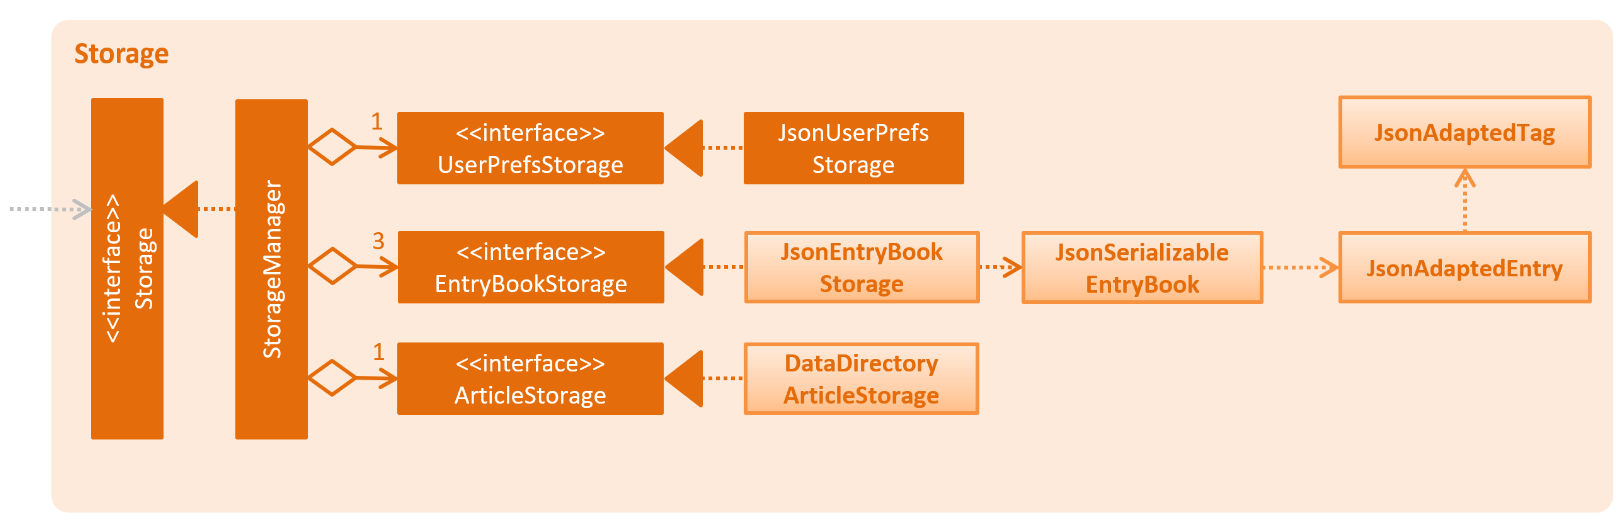
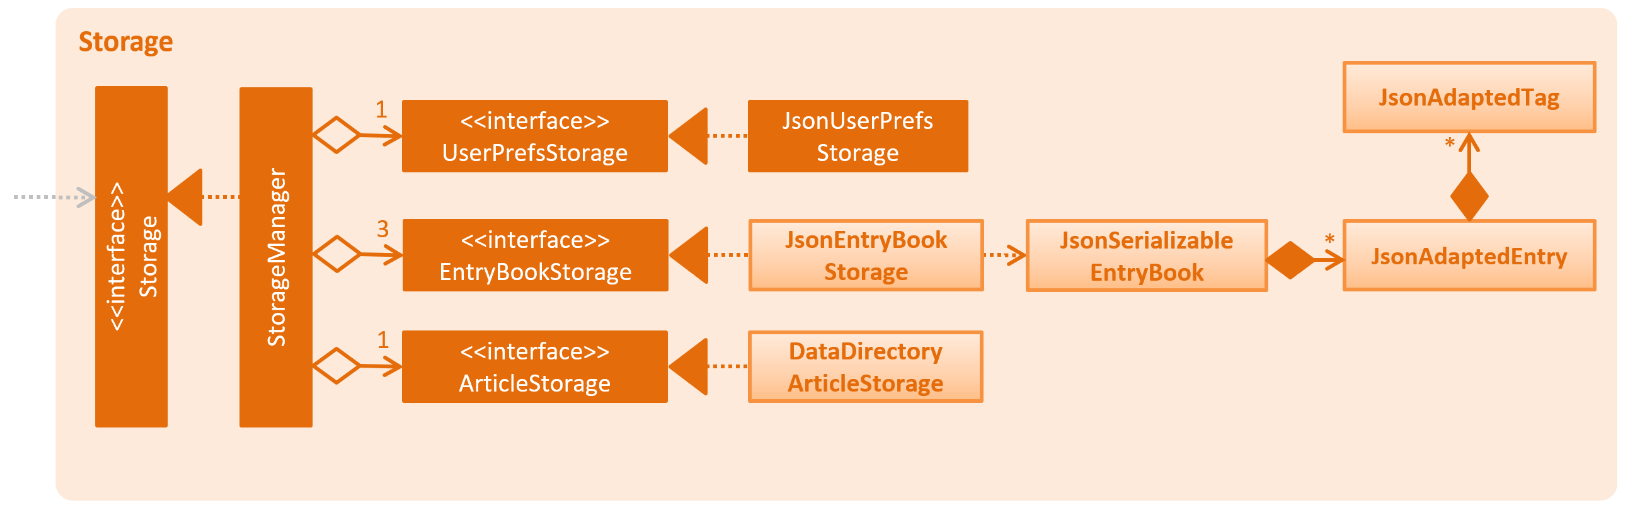
Rebuild pages at 9bd3576d60252b10513c8cabb75ee94daa49c340

diff --git a/DeveloperGuide.html b/DeveloperGuide.html
@@ -533,12 +533,20 @@ As a more OOP model, we can store a <code>Tag</code> list in <code>Address Book<
 <div class="ulist">
 <ul>
 <li>
-<p>can save <code>UserPref</code> objects in json format and read it back.</p>
+<p>can save <code>UserPref</code> objects, and <code>EntryBook</code> data (for Reading List, Archives, and Feeds) in json format and read it back.</p>
 </li>
 <li>
-<p>can save the Address Book data in json format and read it back.</p>
+<p>can save .html articles in a data directory as individual files. The article contents are only read when required by the user.</p>
 </li>
 </ul>
+</div>
+<div class="paragraph">
+<p>Unlike the <code>UserPref</code> and <code>EntryBook</code> data, we don&#8217;t store the articles in a flat file.
+This is because the file size of the article store is much larger than the file sizes of all the prefs and reading list/archives/etc. combined,
+so having it in a flat file would drastically slow down the application.</p>
+</div>
+<div class="paragraph">
+<p>Instead, the files are saved to disk and are not read until the user clicks on an entry and wants to view it offline.</p>
 </div>
 </div>
 <div class="sect2">
@@ -1300,6 +1308,36 @@ after ruling out dependency inversion,
 and the static class pattern is easier to write than the singleton pattern.</p>
 </div>
 </div>
+<div class="sect3">
+<h4 id="asynchronous-network-calls"><a class="link" href="#asynchronous-network-calls">3.5.6. Asynchronous network calls</a></h4>
+<div class="paragraph">
+<p>As the entirety of addressbook-level4 (AB4) is written synchronously,
+it is a major undertaking to convert AB4 to use asynchronous (async) network calls.
+We did a small scale experiment to see how async might be done by making
+the <code>select</code> command download un-downloaded articles in the background.</p>
+</div>
+<div class="paragraph">
+<p>Here is a sequence diagram showing how the interaction works:</p>
+</div>
+<div class="imageblock">
+<div class="content">
+<img src="images/SelectRefreshSdForStorage.png" alt="SelectRefreshSdForStorage" width="800">
+</div>
+</div>
+<div class="paragraph">
+<p>Notice that when returning from the async network call,
+we wrap our code in <code>Platform.runLater(&#8230;&#8203;)</code> to ensure that the rest of the
+execution is done on the JavaFX Application Thread.
+This helps to prevent certain race conditions from potentially ruining the model.</p>
+</div>
+<div class="paragraph">
+<p>However, in the process of implementing this,
+we found that it made testing this unreliable
+as we could no longer be sure when the command has "truly" finished executing.
+Thus, we decided to defer the conversion of the rest of the AB4 to async
+to the v2.0 milestone.</p>
+</div>
+</div>
 </div>
 <div class="sect2">
 <h3 id="offline-mode"><a class="link" href="#offline-mode">3.6. Offline mode</a></h3>
@@ -1782,7 +1820,7 @@ e.g. <code>seedu.address.logic.LogicManagerTest</code></p>
 <div class="sect2">
 <h3 id="continuous-integration"><a class="link" href="#continuous-integration">6.2. Continuous Integration</a></h3>
 <div class="paragraph">
-<p>We use <a href="https://travis-ci.org/">Travis CI</a> and <a href="https://www.appveyor.com/">AppVeyor</a> to perform <em>Continuous Integration</em> on our projects. See <a href="UsingTravis.html">UsingTravis.adoc</a> and <a href="UsingAppVeyor.html">UsingAppVeyor.adoc</a> for more details.</p>
+<p>We use <a href="https://travis-ci.org/">Travis CI</a> and <a href="https://www.appveyor.com/">AppVeyo</a> to perform <em>Continuous Integration</em> on our projects. See <a href="UsingTravis.html">UsingTravis.adoc</a> and <a href="UsingAppVeyor.html">UsingAppVeyor.adoc</a> for more details.</p>
 </div>
 </div>
 <div class="sect2">
@@ -3245,4 +3283,4 @@ Expected: Similar to previous.</p>
 </div>
 </div>
 </div>
-</div></div><div id="footer"><div class="container"><div id="footer-text">Last updated 2019-04-15 14:20:51 UTC</div></div></div></body></html>
+</div></div><div id="footer"><div class="container"><div id="footer-text">Last updated 2019-04-15 14:52:37 UTC</div></div></div></body></html>

diff --git a/team/thomastanck.html b/team/thomastanck.html
@@ -485,6 +485,39 @@ with other commands such as <a href="#findcommand"><code>find</code></a> to be m
 </table>
 <hr>
 <div class="sect2">
+<h3 id="storage-component"><a class="link" href="#storage-component">Storage component</a></h3>
+<div class="imageblock">
+<div class="content">
+<img src="../images/StorageClassDiagram.png" alt="StorageClassDiagram" width="800">
+</div>
+<div class="title">Figure 3. Structure of the Storage Component</div>
+</div>
+<div class="paragraph">
+<p><strong>API</strong> : <a href="{repoURL}/src/main/java/seedu/address/storage/Storage.java"><code>Storage.java</code></a></p>
+</div>
+<div class="paragraph">
+<p>The <code>Storage</code> component,</p>
+</div>
+<div class="ulist">
+<ul>
+<li>
+<p>can save <code>UserPref</code> objects, and <code>EntryBook</code> data (for Reading List, Archives, and Feeds) in json format and read it back.</p>
+</li>
+<li>
+<p>can save .html articles in a data directory as individual files. The article contents are only read when required by the user.</p>
+</li>
+</ul>
+</div>
+<div class="paragraph">
+<p>Unlike the <code>UserPref</code> and <code>EntryBook</code> data, we don&#8217;t store the articles in a flat file.
+This is because the file size of the article store is much larger than the file sizes of all the prefs and reading list/archives/etc. combined,
+so having it in a flat file would drastically slow down the application.</p>
+</div>
+<div class="paragraph">
+<p>Instead, the files are saved to disk and are not read until the user clicks on an entry and wants to view it offline.</p>
+</div>
+</div>
+<div class="sect2">
 <h3 id="code-network-code-design"><a class="link" href="#code-network-code-design"><code>Network</code> design</a></h3>
 <div class="paragraph">
 <p>As many components have to make network calls
@@ -690,6 +723,36 @@ after ruling out dependency inversion,
 and the static class pattern is easier to write than the singleton pattern.</p>
 </div>
 </div>
+<div class="sect3">
+<h4 id="asynchronous-network-calls"><a class="link" href="#asynchronous-network-calls">Asynchronous network calls</a></h4>
+<div class="paragraph">
+<p>As the entirety of addressbook-level4 (AB4) is written synchronously,
+it is a major undertaking to convert AB4 to use asynchronous (async) network calls.
+We did a small scale experiment to see how async might be done by making
+the <code>select</code> command download un-downloaded articles in the background.</p>
+</div>
+<div class="paragraph">
+<p>Here is a sequence diagram showing how the interaction works:</p>
+</div>
+<div class="imageblock">
+<div class="content">
+<img src="../images/SelectRefreshSdForStorage.png" alt="SelectRefreshSdForStorage" width="800">
 </div>
 </div>
-</div></div><div id="footer"><div class="container"><div id="footer-text">Last updated 2019-04-15 14:20:51 UTC</div></div></div></body></html>
+<div class="paragraph">
+<p>Notice that when returning from the async network call,
+we wrap our code in <code>Platform.runLater(&#8230;&#8203;)</code> to ensure that the rest of the
+execution is done on the JavaFX Application Thread.
+This helps to prevent certain race conditions from potentially ruining the model.</p>
+</div>
+<div class="paragraph">
+<p>However, in the process of implementing this,
+we found that it made testing this unreliable
+as we could no longer be sure when the command has "truly" finished executing.
+Thus, we decided to defer the conversion of the rest of the AB4 to async
+to the v2.0 milestone.</p>
+</div>
+</div>
+</div>
+</div>
+</div></div><div id="footer"><div class="container"><div id="footer-text">Last updated 2019-04-15 14:52:37 UTC</div></div></div></body></html>

diff --git a/HelpWindow.html b/HelpWindow.html
@@ -69,7 +69,7 @@
 <li><a href="#List-Context">6.4. <code>Reading List</code> Context Commands</a>
 <ul class="sectlevel3">
 <li><a href="#editing-an-entry-code-edit-code">6.4.1. Editing an entry: <code>edit</code></a></li>
-<li><a href="#findcommand">6.4.2. Finding entries by title: <code>find</code></a></li>
+<li><a href="#findcommand">6.4.2. Finding entries (by title, description, etc.): <code>find</code></a></li>
 <li><a href="#selecting-an-entry-code-select-code">6.4.3. Selecting an entry: <code>select</code></a></li>
 <li><a href="#changing-the-view-mode-code-view-code">6.4.4. Changing the view mode: <code>view</code></a></li>
 <li><a href="#refreshing-an-entry-code-refresh-code">6.4.5. Refreshing an entry: <code>refresh</code></a></li>
@@ -104,7 +104,7 @@
 <li><a href="#Feeds-Context">6.7. <code>Feeds</code> Context Commands</a>
 <ul class="sectlevel3">
 <li><a href="#updating-entries-from-feeds-code-refresh-code">6.7.1. Updating entries from feeds: <code>refresh</code></a></li>
-<li><a href="#updating-entries-from-all-currently-displayed-feeds-code-addall-code">6.7.2. Updating entries from all currently displayed feeds: <code>addall</code></a></li>
+<li><a href="#updating-entries-from-all-currently-displayed-feeds-code-refreshall-code">6.7.2. Updating entries from all currently displayed feeds: <code>refreshall</code></a></li>
 <li><a href="#selecting-a-feed-code-select-code">6.7.3. Selecting a feed: <code>select</code></a></li>
 <li><a href="#editing-a-feed-code-edit-code-code-coming-in-v2-0-code">6.7.4. Editing a feed: <code>edit</code> <code>[coming in v2.0]</code></a></li>
 <li><a href="#unsubscribing-from-a-feed-code-unsubscribe-code">6.7.5. Unsubscribing from a feed: <code>unsubscribe</code></a></li>
@@ -1310,7 +1310,7 @@ Refer to <a href="#Searchfeeds-Context">Section 6.8, &#8220;<code>Feeds Search</
 </div>
 </div>
 <div class="sect3">
-<h4 id="findcommand"><a class="link" href="#findcommand">6.4.2. Finding entries by title: <code>find</code></a></h4>
+<h4 id="findcommand"><a class="link" href="#findcommand">6.4.2. Finding entries (by title, description, etc.): <code>find</code></a></h4>
 <div class="paragraph">
 <p>Finds entries whose fields contain any of the given keyphrases.<br></p>
 </div>
@@ -2605,7 +2605,7 @@ with other commands such as <a href="#findcommand"><code>find</code></a> to be m
 </div>
 </div>
 <div class="sect3">
-<h4 id="updating-entries-from-all-currently-displayed-feeds-code-addall-code"><a class="link" href="#updating-entries-from-all-currently-displayed-feeds-code-addall-code">6.7.2. Updating entries from all currently displayed feeds: <code>addall</code></a></h4>
+<h4 id="updating-entries-from-all-currently-displayed-feeds-code-refreshall-code"><a class="link" href="#updating-entries-from-all-currently-displayed-feeds-code-refreshall-code">6.7.2. Updating entries from all currently displayed feeds: <code>refreshall</code></a></h4>
 <div class="paragraph">
 <p>Refreshes all currently displayed feeds.</p>
 </div>
@@ -2973,4 +2973,4 @@ with other commands such as <a href="#findcommand"><code>find</code></a> to be m
 <div class="sectionbody">
 
 </div>
-</div></div><div id="footer"><div class="container"><div id="footer-text">Last updated 2019-04-15 14:20:51 UTC</div></div></div></body></html>
+</div></div><div id="footer"><div class="container"><div id="footer-text">Last updated 2019-04-15 14:52:36 UTC</div></div></div></body></html>

diff --git a/UserGuide.html b/UserGuide.html
@@ -69,7 +69,7 @@
 <li><a href="#List-Context">6.4. <code>Reading List</code> Context Commands</a>
 <ul class="sectlevel3">
 <li><a href="#editing-an-entry-code-edit-code">6.4.1. Editing an entry: <code>edit</code></a></li>
-<li><a href="#findcommand">6.4.2. Finding entries by title: <code>find</code></a></li>
+<li><a href="#findcommand">6.4.2. Finding entries (by title, description, etc.): <code>find</code></a></li>
 <li><a href="#selecting-an-entry-code-select-code">6.4.3. Selecting an entry: <code>select</code></a></li>
 <li><a href="#changing-the-view-mode-code-view-code">6.4.4. Changing the view mode: <code>view</code></a></li>
 <li><a href="#refreshing-an-entry-code-refresh-code">6.4.5. Refreshing an entry: <code>refresh</code></a></li>
@@ -104,7 +104,7 @@
 <li><a href="#Feeds-Context">6.7. <code>Feeds</code> Context Commands</a>
 <ul class="sectlevel3">
 <li><a href="#updating-entries-from-feeds-code-refresh-code">6.7.1. Updating entries from feeds: <code>refresh</code></a></li>
-<li><a href="#updating-entries-from-all-currently-displayed-feeds-code-addall-code">6.7.2. Updating entries from all currently displayed feeds: <code>addall</code></a></li>
+<li><a href="#updating-entries-from-all-currently-displayed-feeds-code-refreshall-code">6.7.2. Updating entries from all currently displayed feeds: <code>refreshall</code></a></li>
 <li><a href="#selecting-a-feed-code-select-code">6.7.3. Selecting a feed: <code>select</code></a></li>
 <li><a href="#editing-a-feed-code-edit-code-code-coming-in-v2-0-code">6.7.4. Editing a feed: <code>edit</code> <code>[coming in v2.0]</code></a></li>
 <li><a href="#unsubscribing-from-a-feed-code-unsubscribe-code">6.7.5. Unsubscribing from a feed: <code>unsubscribe</code></a></li>
@@ -1310,7 +1310,7 @@ Refer to <a href="#Searchfeeds-Context">Section 6.8, &#8220;<code>Feeds Search</
 </div>
 </div>
 <div class="sect3">
-<h4 id="findcommand"><a class="link" href="#findcommand">6.4.2. Finding entries by title: <code>find</code></a></h4>
+<h4 id="findcommand"><a class="link" href="#findcommand">6.4.2. Finding entries (by title, description, etc.): <code>find</code></a></h4>
 <div class="paragraph">
 <p>Finds entries whose fields contain any of the given keyphrases.<br></p>
 </div>
@@ -2605,7 +2605,7 @@ with other commands such as <a href="#findcommand"><code>find</code></a> to be m
 </div>
 </div>
 <div class="sect3">
-<h4 id="updating-entries-from-all-currently-displayed-feeds-code-addall-code"><a class="link" href="#updating-entries-from-all-currently-displayed-feeds-code-addall-code">6.7.2. Updating entries from all currently displayed feeds: <code>addall</code></a></h4>
+<h4 id="updating-entries-from-all-currently-displayed-feeds-code-refreshall-code"><a class="link" href="#updating-entries-from-all-currently-displayed-feeds-code-refreshall-code">6.7.2. Updating entries from all currently displayed feeds: <code>refreshall</code></a></h4>
 <div class="paragraph">
 <p>Refreshes all currently displayed feeds.</p>
 </div>
@@ -2973,4 +2973,4 @@ with other commands such as <a href="#findcommand"><code>find</code></a> to be m
 <div class="sectionbody">
 
 </div>
-</div></div><div id="footer"><div class="container"><div id="footer-text">Last updated 2019-04-15 14:20:51 UTC</div></div></div></body></html>
+</div></div><div id="footer"><div class="container"><div id="footer-text">Last updated 2019-04-15 14:52:37 UTC</div></div></div></body></html>

diff --git a/networktests/index.html b/networktests/index.html
@@ -2,4 +2,4 @@
 <link rel="stylesheet" href="https://cdnjs.cloudflare.com/ajax/libs/font-awesome/4.5.0/css/font-awesome.min.css">
 <link rel="stylesheet" href="../stylesheets/coderay-asciidoctor.css"></head><body class="article"><div id="site-header"><nav class="navbar navbar-light bg-light"><div class="container"><a class="navbar-brand" href="../index.html">README</a><ul class="navbar-nav"><li class="nav-item"><a class="nav-link" href="../UserGuide.html">User Guide</a></li><li class="nav-item"><a class="nav-link" href="../DeveloperGuide.html">Developer Guide</a></li><li class="nav-item"><a class="nav-link" href="../AboutUs.html">About Us</a></li><li class="nav-item"><a class="nav-link" href="../ContactUs.html">Contact Us</a></li><li class="navitem"><a class="nav-link" href="https://github.com/CS2103-AY1819S2-W10-1/main"><span class="fa fa-github fa-lg" aria-hidden="true"></span>&nbsp;View on GitHub</a></li></ul></div></nav></div><div id="header"></div><div id="content"><div class="paragraph">
 <p>It works!</p>
-</div></div><div id="footer"><div class="container"><div id="footer-text">Last updated 2019-04-15 14:20:51 UTC</div></div></div></body></html>
+</div></div><div id="footer"><div class="container"><div id="footer-text">Last updated 2019-04-15 14:52:37 UTC</div></div></div></body></html>

diff --git a/team/epicfailname.html b/team/epicfailname.html
@@ -178,7 +178,7 @@ As such, my responsibility in this project is to develop a powerful system to or
 </table>
 <hr>
 <div class="sect3">
-<h4 id="findcommand"><a class="link" href="#findcommand">Finding entries by title: <code>find</code></a></h4>
+<h4 id="findcommand"><a class="link" href="#findcommand">Finding entries (by title, description, etc.): <code>find</code></a></h4>
 <div class="paragraph">
 <p>Finds entries whose fields contain any of the given keyphrases.<br></p>
 </div>
@@ -530,4 +530,4 @@ of the code base to implement.</p>
 </div>
 </div>
 </div>
-</div></div><div id="footer"><div class="container"><div id="footer-text">Last updated 2019-04-15 14:20:51 UTC</div></div></div></body></html>
+</div></div><div id="footer"><div class="container"><div id="footer-text">Last updated 2019-04-15 14:52:37 UTC</div></div></div></body></html>

diff --git a/index.html b/index.html
@@ -106,4 +106,4 @@ It has a GUI but most of the user interactions happen using a CLI (Command Line 
 <div class="sectionbody">
 
 </div>
-</div></div><div id="footer"><div class="container"><div id="footer-text">Last updated 2019-04-15 14:20:51 UTC</div></div></div></body></html>
+</div></div><div id="footer"><div class="container"><div id="footer-text">Last updated 2019-04-15 14:52:37 UTC</div></div></div></body></html>

diff --git a/ContactUs.html b/ContactUs.html
@@ -12,4 +12,4 @@
 <p><strong>Email us</strong> : You can also reach us at <code>damith [at] comp.nus.edu.sg</code></p>
 </li>
 </ul>
-</div></div><div id="footer"><div class="container"><div id="footer-text">Last updated 2019-04-15 14:20:51 UTC</div></div></div></body></html>
+</div></div><div id="footer"><div class="container"><div id="footer-text">Last updated 2019-04-15 14:52:36 UTC</div></div></div></body></html>

diff --git a/team/rlrh.html b/team/rlrh.html
@@ -185,4 +185,4 @@ The following sections illustrate these enhancements in more detail, as well as 
 </tbody>
 </table>
 </div>
-</div></div><div id="footer"><div class="container"><div id="footer-text">Last updated 2019-04-15 14:20:51 UTC</div></div></div></body></html>
+</div></div><div id="footer"><div class="container"><div id="footer-text">Last updated 2019-04-15 14:52:37 UTC</div></div></div></body></html>

diff --git a/LearningOutcomes.html b/LearningOutcomes.html
@@ -549,4 +549,4 @@ When the value represented by the <code>ObservableValue</code> changes, it will 
 </div>
 </div>
 </div>
-</div></div><div id="footer"><div class="container"><div id="footer-text">Last updated 2019-04-15 14:20:51 UTC</div></div></div></body></html>
+</div></div><div id="footer"><div class="container"><div id="footer-text">Last updated 2019-04-15 14:52:36 UTC</div></div></div></body></html>

diff --git a/UsingGradle.html b/UsingGradle.html
@@ -255,4 +255,4 @@ See <code>build.gradle</code> &#8594; <code>allprojects</code> &#8594; <code>dep
 </ul>
 </div>
 </div>
-</div></div><div id="footer"><div class="container"><div id="footer-text">Last updated 2019-04-15 14:20:51 UTC</div></div></div></body></html>
+</div></div><div id="footer"><div class="container"><div id="footer-text">Last updated 2019-04-15 14:52:36 UTC</div></div></div></body></html>

diff --git a/UsingNetlify.html b/UsingNetlify.html
@@ -123,4 +123,4 @@ The publish directory is the directory in which the built HTML documentation res
 </ol>
 </div>
 </div>
-</div></div><div id="footer"><div class="container"><div id="footer-text">Last updated 2019-04-15 14:20:51 UTC</div></div></div></body></html>
+</div></div><div id="footer"><div class="container"><div id="footer-text">Last updated 2019-04-15 14:52:36 UTC</div></div></div></body></html>
